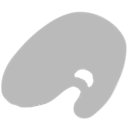
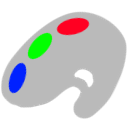
icon変更

Changed region(s): [[0.4375, 0.125, 0.7188, 0.2812], [0.0625, 0.4688, 0.2188, 0.75], [0.2188, 0.25, 0.4062, 0.4688]]

diff --git a/src/extension.ts b/src/extension.ts
@@ -7,7 +7,4 @@ export function activate(context: vscode.ExtensionContext) {
 	});
 }
 
-// これ?でjson保存
-//https://code.visualstudio.com/api/references/contribution-points#contributes.configuration
-// this method is called when your extension is deactivated
 export function deactivate() { }
